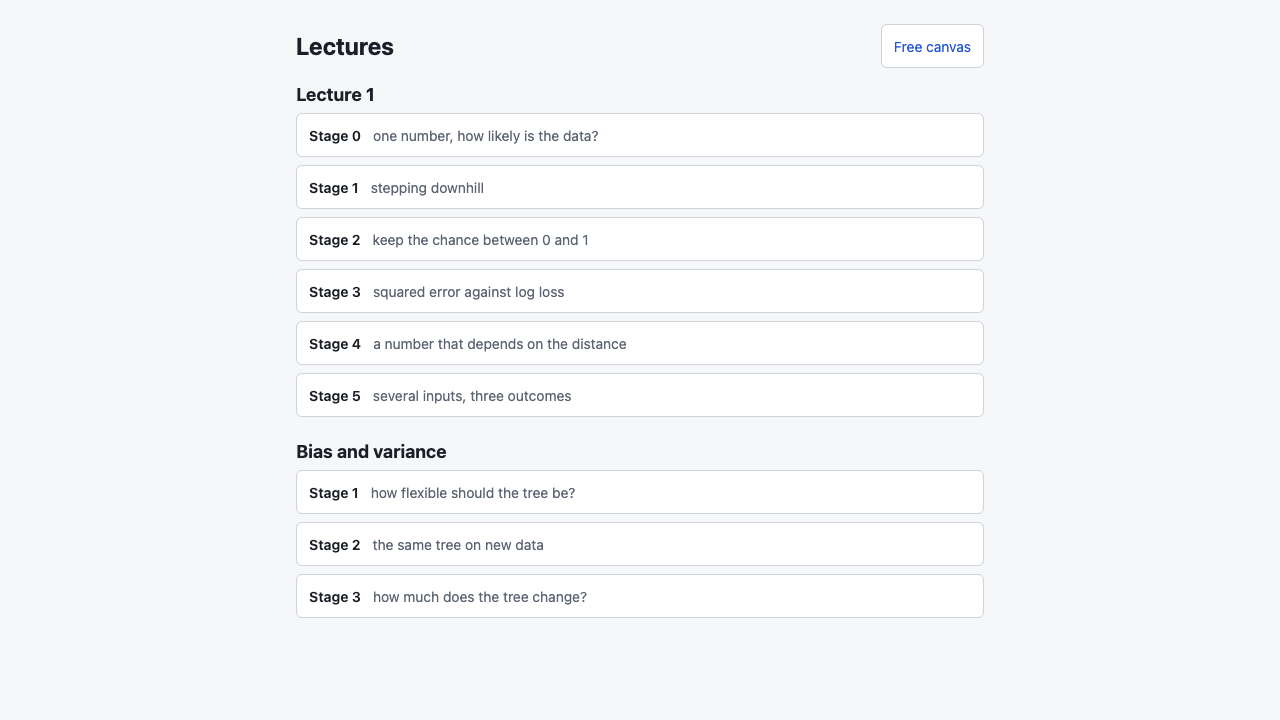
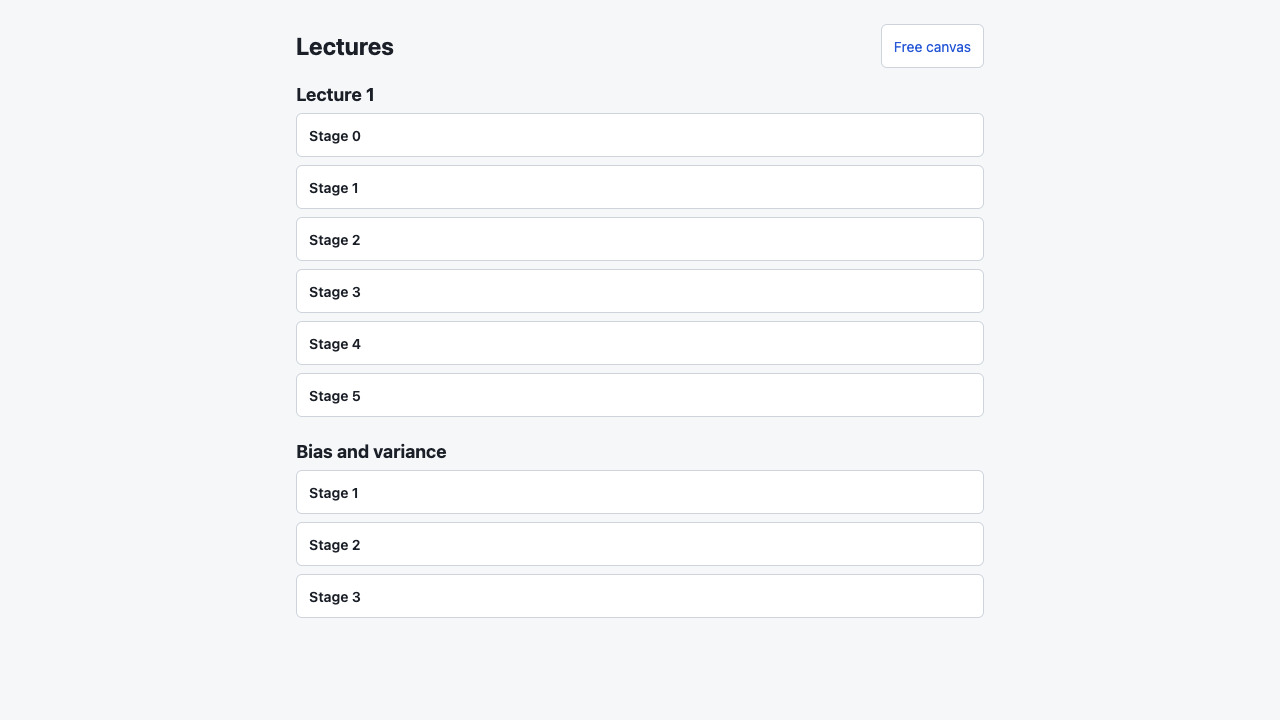
tinker-4sp: review fixes: clear stale stage hash, always-present Lectures link, plain stage labels, no reload on back, single startup load

diff --git a/packages/web/src/routes/useRoute.ts b/packages/web/src/routes/useRoute.ts
@@ -1,6 +1,8 @@
 import { useSyncExternalStore } from 'react';
 import { loadBundled } from '../topbar/PresetMenu.js';
-import { parseRoute, routePreset, type Route } from './lectureRoute.js';
+import { presetTitle } from '../presets/index.js';
+import { useStore } from '../state/store.js';
+import { parseRoute, routePreset, routeStep, type Route } from './lectureRoute.js';
 
 function subscribe(cb: () => void): () => void {
   window.addEventListener('hashchange', cb);
@@ -13,17 +15,40 @@ export function useRoute(): Route {
   return parseRoute(useSyncExternalStore(subscribe, snapshot, () => ''));
 }
 
+/** True when the hash is a lecture stage route (start-up then skips `?preset=`). */
+export function hashIsStage(hash: string): boolean {
+  return parseRoute(hash).kind === 'stage';
+}
+
 /**
- * Loads the stage a route names (one undo step, as the Presets menu does) at start and on every
- * hashchange to a stage route. The landing page and the free canvas load nothing, so work in
- * progress stays. Returns a stop function.
+ * Keeps the URL and the loaded preset in step (CONTRACTS section 12). At start and on every
+ * hashchange to a stage route the stage is loaded (one undo step, as the Presets menu does) unless
+ * it is already the loaded preset. When something else later replaces the stage (another preset,
+ * a file, Undo) the hash is cleared with `replaceState` (no history entry, no hashchange). The
+ * landing page and the free canvas load nothing. Returns a stop function.
  */
 export function startRouting(): () => void {
-  const apply = () => {
-    const name = routePreset(parseRoute(window.location.hash));
-    if (name) loadBundled(name);
+  let armed = false;
+  const step = (mayLoad: boolean) => {
+    const route = parseRoute(window.location.hash);
+    const name = routePreset(route);
+    const title = useStore.getState().preset?.title ?? null;
+    const r = routeStep(route, name !== null && title === presetTitle(name), armed);
+    armed = r.armed;
+    if (r.clear) {
+      window.history.replaceState(null, '', window.location.pathname + window.location.search);
+    } else if (r.load && mayLoad && name) {
+      loadBundled(name);
+      // A preset on a real dataset loads asynchronously: it arms once its title shows up.
+      armed = (useStore.getState().preset?.title ?? null) === presetTitle(name);
+    }
   };
-  apply();
-  window.addEventListener('hashchange', apply);
-  return () => window.removeEventListener('hashchange', apply);
+  step(true);
+  const onHash = () => step(true);
+  window.addEventListener('hashchange', onHash);
+  const unsub = useStore.subscribe(() => step(false));
+  return () => {
+    window.removeEventListener('hashchange', onHash);
+    unsub();
+  };
 }

diff --git a/packages/web/test/lectureRoute.test.ts b/packages/web/test/lectureRoute.test.ts
@@ -3,6 +3,7 @@ import {
   formatRoute,
   parseRoute,
   routePreset,
+  routeStep,
   stageNeighbours,
 } from '../src/routes/lectureRoute.js';
 import { LECTURES, lecturePresetNames, stagePresetName } from '../src/presets/lectures.js';
@@ -56,4 +57,13 @@ test('the presets menu lists no lecture stage, and every other preset', () => {
   expect(MENU_PRESET_NAMES.some((n) => lec.has(n))).toBe(false);
   expect(MENU_PRESET_NAMES).toHaveLength(PRESET_NAMES.length - lec.size);
   expect(MENU_PRESET_NAMES).toContain('scalar');
+});
+
+test('routeStep loads once, then clears the hash when the stage is replaced', () => {
+  const stage = { kind: 'stage', lecture: 'lecture1', stage: 2 } as const;
+  expect(routeStep(stage, false, false)).toEqual({ load: true, clear: false, armed: false });
+  expect(routeStep(stage, true, false)).toEqual({ load: false, clear: false, armed: true });
+  expect(routeStep(stage, false, true)).toEqual({ load: false, clear: true, armed: false });
+  expect(routeStep({ kind: 'lectures' }, false, true).armed).toBe(false);
+  expect(routeStep({ kind: 'free' }, false, true).clear).toBe(false);
 });

diff --git a/packages/web/src/routes/lectureRoute.ts b/packages/web/src/routes/lectureRoute.ts
@@ -46,3 +46,21 @@ export function stageNeighbours(
     k === undefined ? null : { kind: 'stage', lecture: info.slug, stage: k };
   return { prev: i > 0 ? at(info.stages[i - 1]) : null, next: at(info.stages[i + 1]) };
 }
+
+/**
+ * What the router does when the hash or the loaded preset changes. `matches` says whether the
+ * loaded preset is the route's stage; `armed` is true once that stage has been loaded under this
+ * route. A stage route whose stage is not loaded (and not armed) loads it; once armed, a mismatch
+ * (another preset or file, or Undo past the load) clears the hash instead, so the URL never names
+ * a stage that is not open. Other routes reset `armed`.
+ */
+export function routeStep(
+  route: Route,
+  matches: boolean,
+  armed: boolean,
+): { load: boolean; clear: boolean; armed: boolean } {
+  if (route.kind !== 'stage') return { load: false, clear: false, armed: false };
+  if (matches) return { load: false, clear: false, armed: true };
+  if (armed) return { load: false, clear: true, armed: false };
+  return { load: true, clear: false, armed: false };
+}

diff --git a/packages/web/src/main.tsx b/packages/web/src/main.tsx
@@ -3,7 +3,7 @@ import { createRoot } from 'react-dom/client';
 import { App } from './App.js';
 import { loadBundled } from './topbar/PresetMenu.js';
 import { loadParsed } from './topbar/FileMenu.js';
-import { startRouting } from './routes/useRoute.js';
+import { hashIsStage, startRouting } from './routes/useRoute.js';
 import { useStore } from './state/store.js';
 import { startFromUrl } from './share/shareLink.js';
 import './theme.css';
@@ -20,8 +20,9 @@ if (import.meta.env.DEV) {
 
 // `#x=1.<payload>` loads a shared exercise (CONTRACTS section 12) and wins over `?preset=<name>`,
 // which loads a bundled preset (an unknown name is ignored).
+// A stage route wins over `?preset=`, so the preset is skipped then (one load, one undo step).
 void startFromUrl(
-  window.location.search,
+  hashIsStage(window.location.hash) ? '' : window.location.search,
   window.location.hash,
   loadParsed,
   loadBundled,

diff --git a/packages/web/src/topbar/LectureNav.tsx b/packages/web/src/topbar/LectureNav.tsx
@@ -1,7 +1,7 @@
 import { useStore } from '../state/store.js';
 import { presetTitle } from '../presets/index.js';
 import { LECTURES } from '../presets/lectures.js';
-import { LANDING_HASH, formatRoute, routePreset, stageNeighbours } from '../routes/lectureRoute.js';
+import { formatRoute, routePreset, stageNeighbours } from '../routes/lectureRoute.js';
 import { useRoute } from '../routes/useRoute.js';
 import styles from './LectureNav.module.css';
 
@@ -19,9 +19,6 @@ export function LectureNav() {
   const lecture = LECTURES.find((l) => l.slug === route.lecture);
   return (
     <nav className={styles.nav} aria-label="Lecture" data-testid="lecture-nav">
-      <a className={styles.link} href={LANDING_HASH} data-testid="lecture-nav-lectures">
-        Lectures
-      </a>
       <span className={styles.here} aria-current="page">
         {lecture?.title}, stage {route.stage}
       </span>

diff --git a/packages/web/src/routes/Landing.tsx b/packages/web/src/routes/Landing.tsx
@@ -1,5 +1,4 @@
-import { LECTURES, stagePresetName } from '../presets/lectures.js';
-import { presetTitle } from '../presets/index.js';
+import { LECTURES } from '../presets/lectures.js';
 import { formatRoute } from './lectureRoute.js';
 import styles from './Landing.module.css';
 
@@ -28,9 +27,6 @@ export function Landing() {
                     data-testid={`landing-${l.slug}-stage${k}`}
                   >
                     <span className={styles.num}>Stage {k}</span>
-                    <span className={styles.sub}>
-                      {presetTitle(stagePresetName(l.slug, k)).replace(/^[^:]*:\s*/, '')}
-                    </span>
                   </a>
                 </li>
               ))}

diff --git a/packages/web/src/topbar/TopBar.tsx b/packages/web/src/topbar/TopBar.tsx
@@ -1,7 +1,9 @@
 import { useUiShown } from '../state/disclosure.js';
 import { DataControls } from './DataControls.js';
 import { FileMenu } from './FileMenu.js';
+import { LANDING_HASH } from '../routes/lectureRoute.js';
 import { LectureNav } from './LectureNav.js';
+import navStyles from './LectureNav.module.css';
 import { PresetMenu } from './PresetMenu.js';
 import { UndoRedo } from './UndoRedo.js';
 
@@ -24,6 +26,9 @@ export function TopBar() {
       {file && <FileMenu />}
       {presets && <PresetMenu />}
       <UndoRedo />
+      <a className={navStyles.link} href={LANDING_HASH} data-testid="lectures-link">
+        Lectures
+      </a>
       <LectureNav />
     </div>
   );

diff --git a/CONTRACTS.md b/CONTRACTS.md
@@ -730,11 +730,11 @@ Default start (tinker-9io.8): `initialGraph()` (web `state/graphSlice.ts`) is th
 
 Lecture stages are not in the top bar Presets menu (`MENU_PRESET_NAMES` in `presets/index.ts` = `PRESET_NAMES` minus every lecture stage); they open from hash routes (pure parse and format in `web/src/routes/lectureRoute.ts`, test `lectureRoute.test.ts`). Grouping metadata is `LECTURES` in `presets/lectures.ts`: `{ slug, title, stages: number[] }`, stage k of lecture `slug` is the preset `<slug>-stage<k>`. Routes (slugs are stable):
 
-- `#/lectures`: the landing page (`routes/Landing.tsx`): lecture titles with a plain anchor per stage ("Stage k" and the part of the preset title after the colon), and a "Free canvas" link (`#/`). Rendered instead of the app grid; the graph and run state stay in the store, so returning to the canvas keeps work in progress.
+- `#/lectures`: the landing page (`routes/Landing.tsx`): lecture titles with a plain anchor per stage (plain "Stage k" labels), and a "Free canvas" link (`#/`). Rendered instead of the app grid; the graph and run state stay in the store, so returning to the canvas keeps work in progress.
 - `#/lecture1/stage0` .. `stage5`, `#/bias-variance/stage1` .. `stage3`: load that stage. An unknown lecture or stage, an empty hash, and `#x=` share fragments are the free canvas (the default start is unchanged).
-- `?preset=<name>` still loads any bundled preset (lecture stage names included). A stage route, if present, loads after it and wins; a `#x=` share link wins over both.
+- `?preset=<name>` still loads any bundled preset (lecture stage names included). A stage route, if present, wins and `?preset=` is skipped (one load, one undo step); a `#x=` share link wins over both.
 
-Loading: `startRouting()` (`routes/useRoute.ts`, called from `main.tsx`) loads the stage at start and on every `hashchange` to a stage route, through `loadBundled` (the same path as the Presets menu: one undo step, no confirm; Undo brings the previous graph back). The landing page and `#/` load nothing. Browser back and forward work because every move is an anchor and a `hashchange`; going back to a stage reloads it fresh (its previous state is one undo step away). Moving within lecture stages: when the URL is a stage route and the loaded preset is that stage, the top bar shows `LectureNav` (`topbar/LectureNav.tsx`, `data-testid="lecture-nav"`): a "Lectures" link, the "<lecture>, stage k" label, and Previous and Next links (plain text, not links, at either end). It is not gated by `show.ui` (it is navigation, not an exercise control), and disappears when another file or preset replaces the stage.
+Loading: `startRouting()` (`routes/useRoute.ts`, called from `main.tsx`; the decision is the pure `routeStep` in `lectureRoute.ts`) loads the stage at start and on every `hashchange` to a stage route, unless that stage is already the loaded preset (back from the landing page keeps work), through `loadBundled` (the same path as the Presets menu: one undo step, no confirm; Undo brings the previous graph back). The landing page and `#/` load nothing. Browser back and forward work because every move is an anchor and a `hashchange`; going back to a stage reloads it fresh (its previous state is one undo step away). Moving within lecture stages: when the URL is a stage route and the loaded preset is that stage, the top bar shows `LectureNav` (`topbar/LectureNav.tsx`, `data-testid="lecture-nav"`): a "Lectures" link, the "<lecture>, stage k" label, and Previous and Next links (plain text, not links, at either end). Once the stage has loaded, anything that replaces it (Presets menu, Load, Undo past the load) clears the hash with `history.replaceState` (no history entry, no hashchange), so a reload never opens a stage that is not showing. A "Lectures" link (`data-testid="lectures-link"`, anchor to `#/lectures`) is always in the top bar, beside Undo/Redo. The nav is not gated by `show.ui` (it is navigation, not an exercise control), and disappears when another file or preset replaces the stage.
 
 ### Lecture 1 stage presets (tinker-6t7.18)
 
